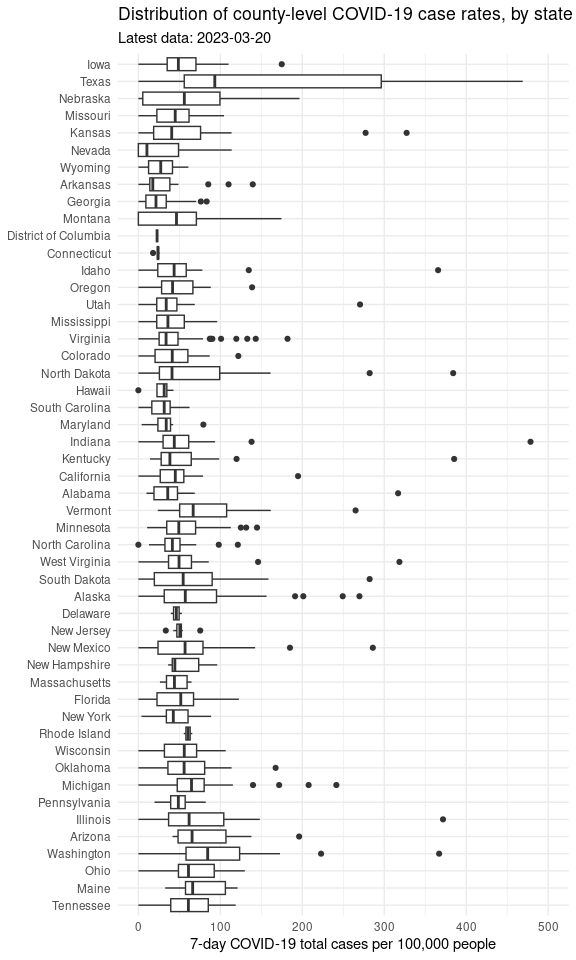
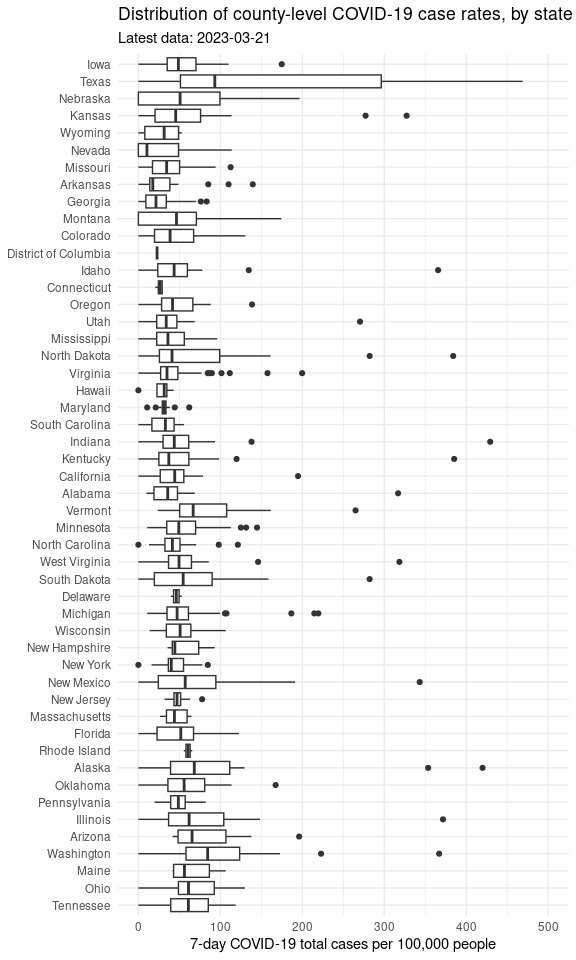
Updated report

diff --git a/README.md b/README.md
@@ -1,7 +1,7 @@
 Minnesota COVID Report
 ================
 
-Report last run: 2023-03-21 22:17:16
+Report last run: 2023-03-22 22:16:14
 
 ## Introduction
 
@@ -109,19 +109,19 @@ rate_data %>%
 |:-----------|:---------------|--------:|-----------:|
 | Boyd       | Kentucky       |   46718 |      48255 |
 | Harlan     | Kentucky       |   26010 |      47893 |
-| Teton      | Wyoming        |   23464 |      45171 |
+| Teton      | Wyoming        |   23464 |      45201 |
 | Knox       | Kentucky       |   31145 |      44473 |
-| Logan      | Illinois       |   28618 |      43780 |
+| Logan      | Illinois       |   28618 |      43777 |
 | Adams      | Illinois       |   65435 |      41777 |
 | Grant      | West Virginia  |   11568 |      40966 |
-| San Juan   | New Mexico     |  123958 |      40812 |
+| San Juan   | New Mexico     |  123958 |      40859 |
 | Morton     | North Dakota   |   31364 |      40017 |
 | Mercer     | Kentucky       |   21933 |      39146 |
-| Nassau     | New York       | 1356924 |      38642 |
+| Nassau     | New York       | 1356924 |      38646 |
+| Dorchester | South Carolina |  162809 |      38054 |
 | Surry      | North Carolina |   71783 |      38026 |
-| Dorchester | South Carolina |  162809 |      37995 |
+| Brown      | Wisconsin      |  264542 |      37954 |
 | Stark      | North Dakota   |   31489 |      37937 |
-| Brown      | Wisconsin      |  264542 |      37926 |
 | Jackson    | Kentucky       |   13329 |      37895 |
 | Carter     | Tennessee      |   56391 |      37882 |
 | Blaine     | Montana        |    6681 |      37719 |
